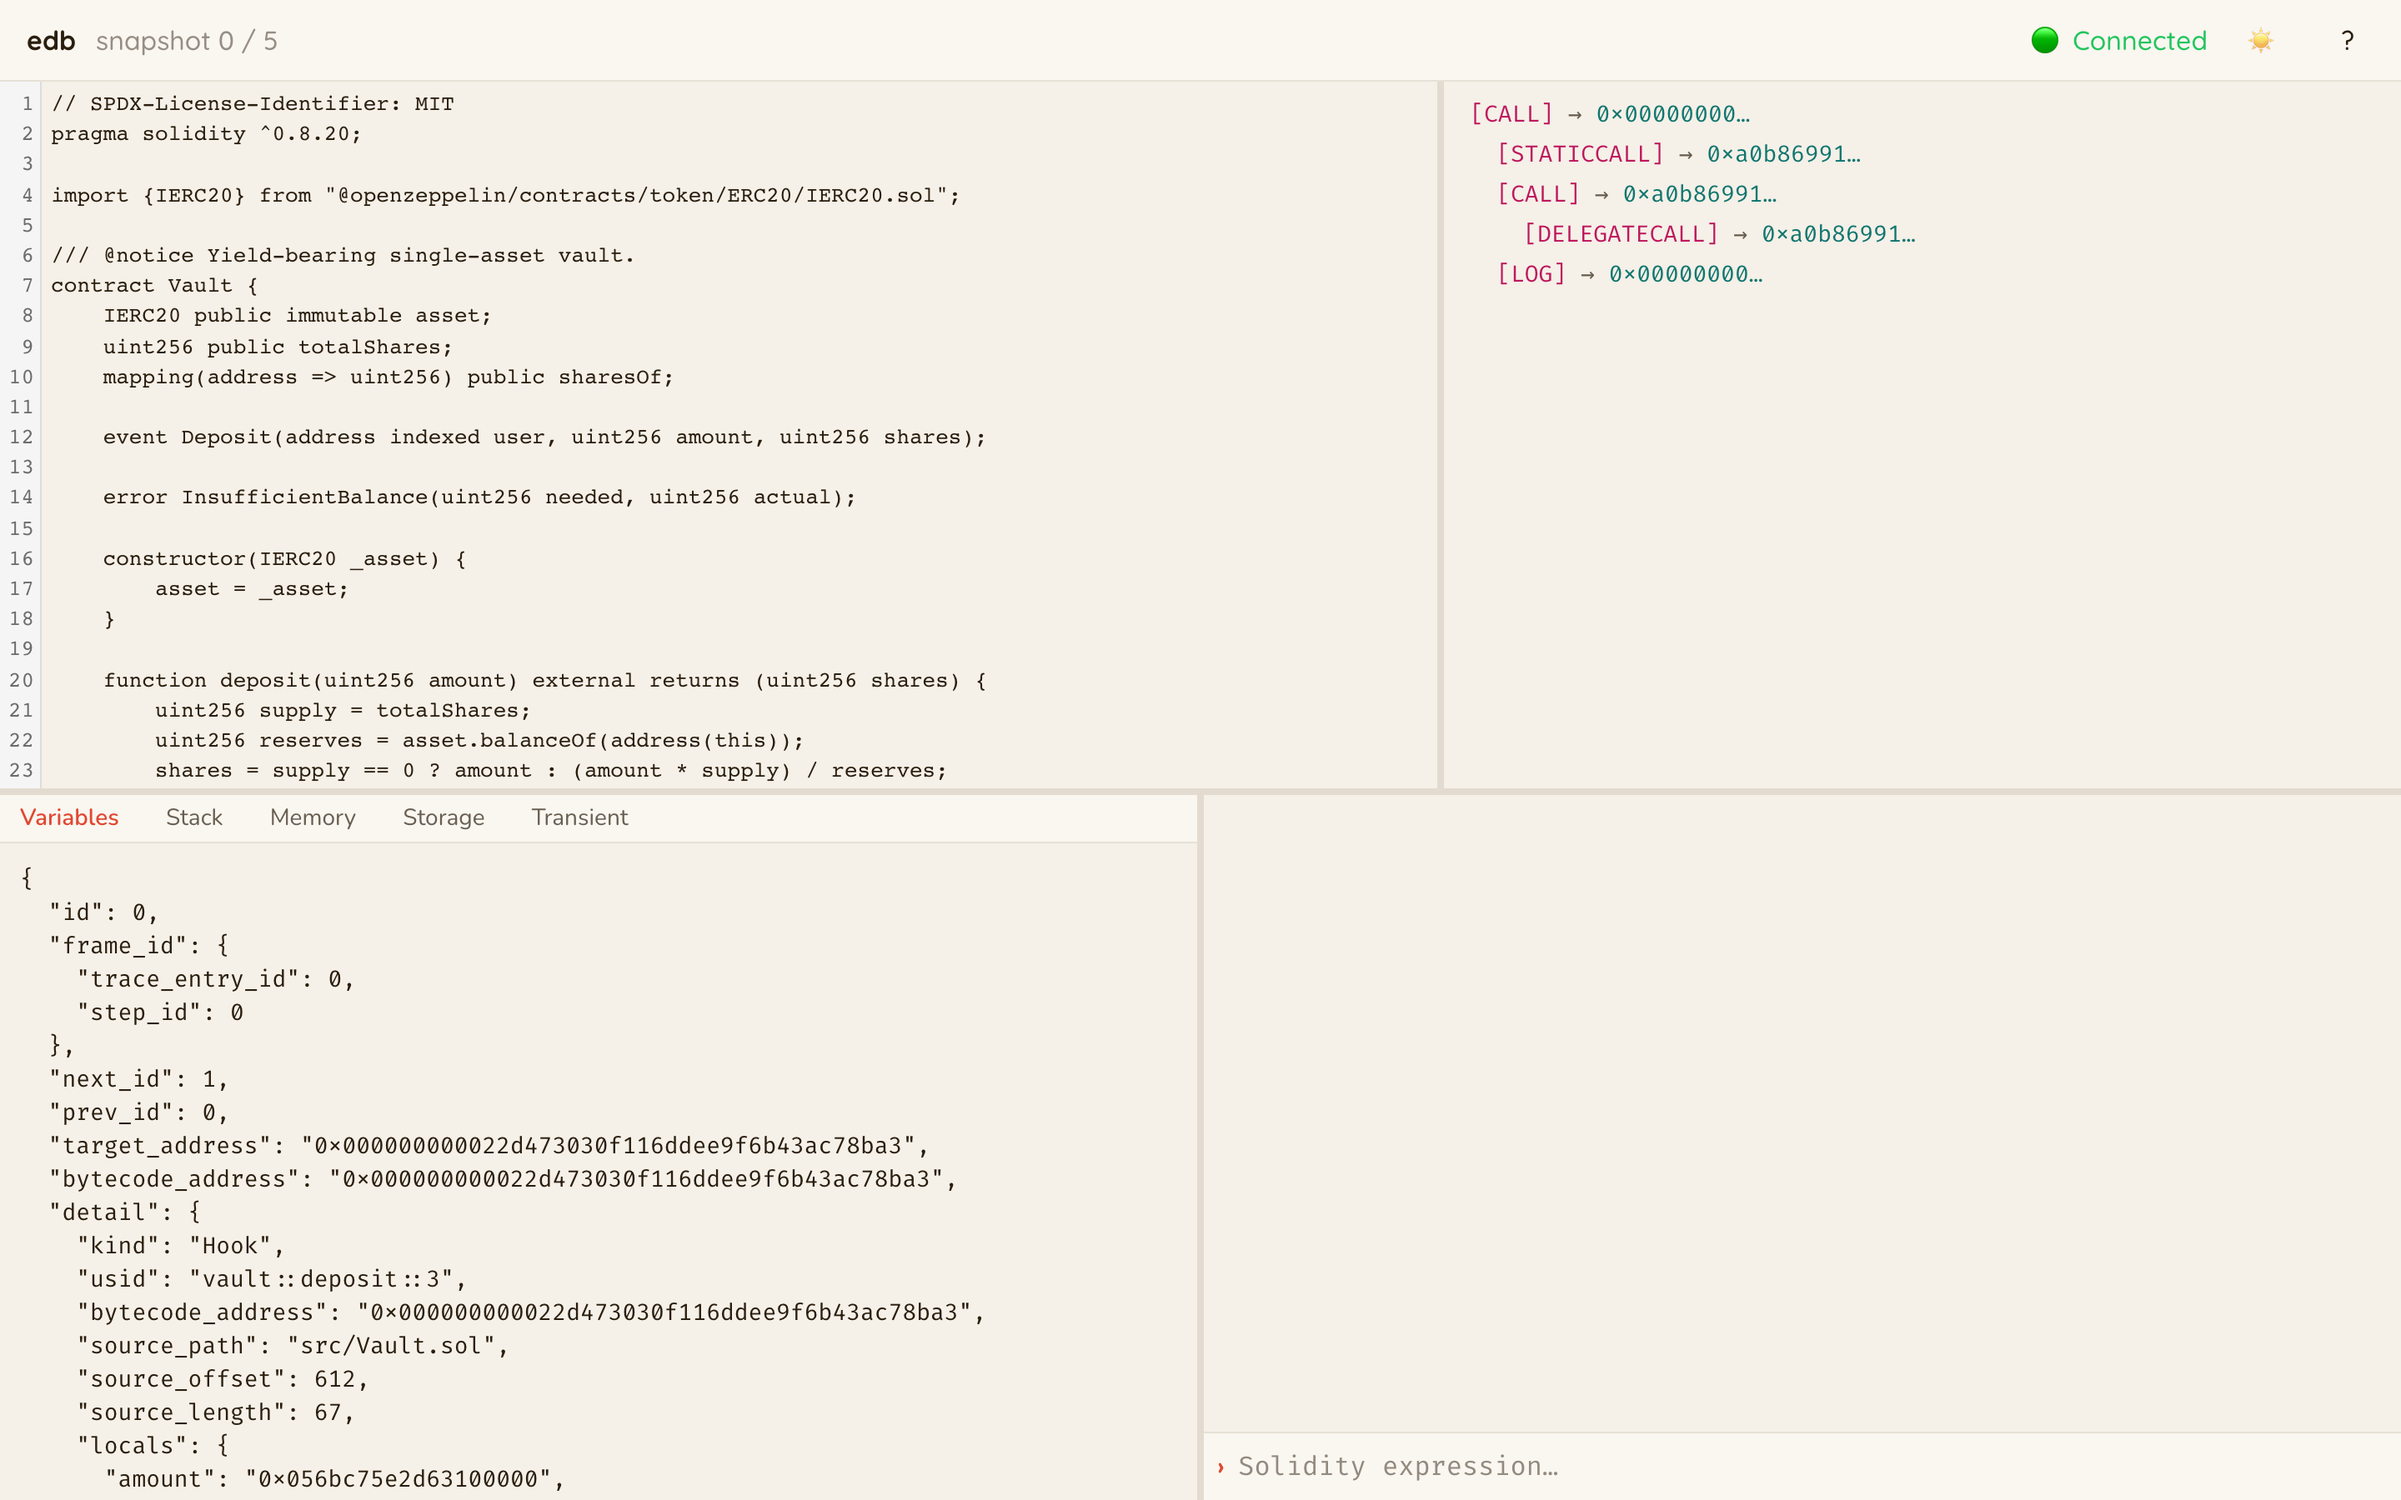
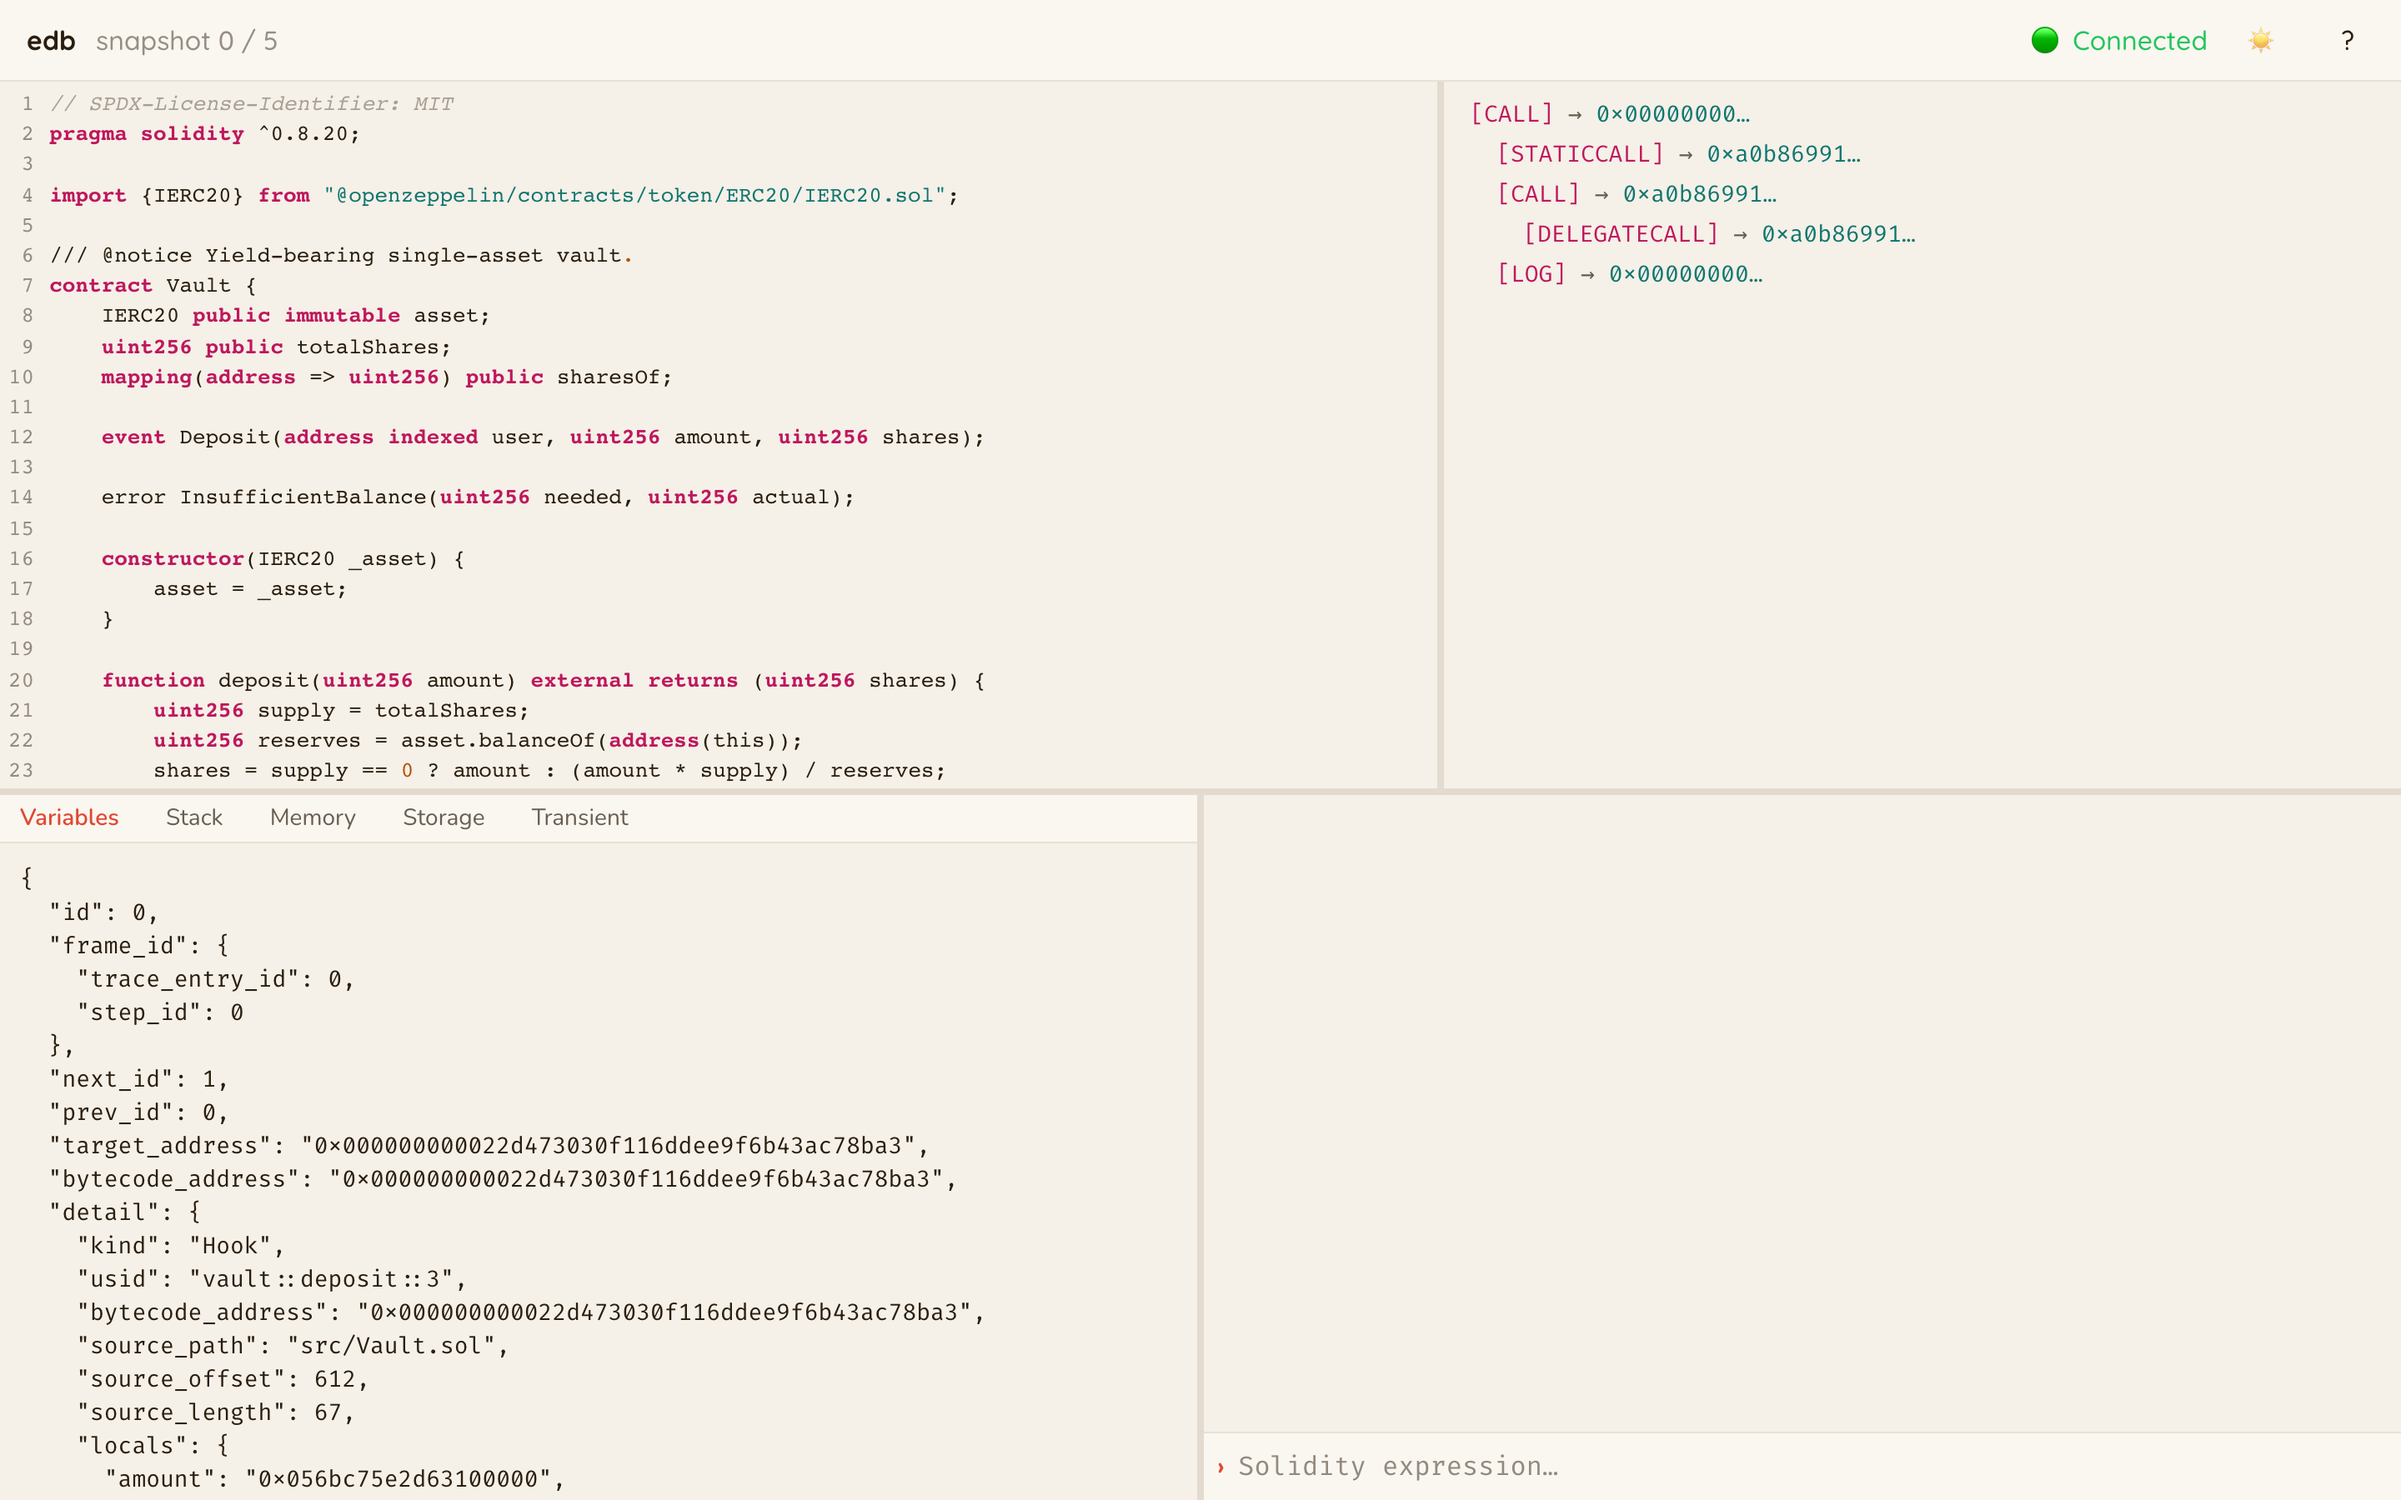
feat(web/ui): solidity syntax highlighting in CodePanel

diff --git a/crates/web/frontend/src/components/panels/CodePanel.tsx b/crates/web/frontend/src/components/panels/CodePanel.tsx
@@ -1,5 +1,7 @@
+import { HighlightStyle, syntaxHighlighting } from '@codemirror/language';
 import { EditorState } from '@codemirror/state';
 import { EditorView, lineNumbers } from '@codemirror/view';
+import { tags as t } from '@lezer/highlight';
 import { solidity } from '@replit/codemirror-lang-solidity';
 import { useEffect, useRef } from 'react';
 import { useCode } from '../../hooks/useCode';
@@ -7,6 +9,41 @@ import { useSession } from '../../store/session';
 import { ErrorBoundary } from '../ErrorBoundary';
 import { ErrorCard } from '../ErrorCard';
 import { tokenize } from '../../lib/opcodeTokens';
+
+const edbHighlight = HighlightStyle.define([
+  { tag: t.keyword, color: 'var(--color-syn-keyword)', fontWeight: '600' },
+  { tag: [t.string, t.special(t.string)], color: 'var(--color-syn-string)' },
+  { tag: [t.number, t.bool, t.null], color: 'var(--color-syn-number)' },
+  { tag: t.comment, color: 'var(--color-syn-comment)', fontStyle: 'italic' },
+  { tag: [t.typeName, t.className, t.namespace], color: 'var(--color-syn-type)' },
+  {
+    tag: [t.function(t.variableName), t.function(t.propertyName)],
+    color: 'var(--color-syn-func)',
+  },
+  { tag: [t.operator, t.operatorKeyword], color: 'var(--color-fg)' },
+  { tag: t.variableName, color: 'var(--color-fg)' },
+  { tag: t.propertyName, color: 'var(--color-fg-secondary)' },
+  { tag: t.punctuation, color: 'var(--color-fg-tertiary)' },
+]);
+
+const edbTheme = EditorView.theme({
+  '&': {
+    fontFamily: 'var(--font-mono)',
+    fontSize: '13px',
+    backgroundColor: 'transparent',
+  },
+  '.cm-content': { caretColor: 'var(--color-fg)' },
+  '.cm-gutters': {
+    backgroundColor: 'transparent',
+    color: 'var(--color-fg-tertiary)',
+    border: 'none',
+  },
+  '.cm-activeLine': { backgroundColor: 'var(--color-bg-hover)' },
+  '.cm-activeLineGutter': { backgroundColor: 'var(--color-bg-hover)' },
+  '.cm-selectionBackground, & ::selection': {
+    backgroundColor: 'var(--color-accent-dim)',
+  },
+});
 
 export function CodePanel() {
   return (
@@ -66,7 +103,13 @@ function SolidityView({
     if (!ref.current || !file) return;
     const state = EditorState.create({
       doc: file.content,
-      extensions: [lineNumbers(), solidity, EditorView.editable.of(false)],
+      extensions: [
+        lineNumbers(),
+        solidity,
+        syntaxHighlighting(edbHighlight),
+        edbTheme,
+        EditorView.editable.of(false),
+      ],
     });
     const view = new EditorView({ state, parent: ref.current });
     return () => view.destroy();
